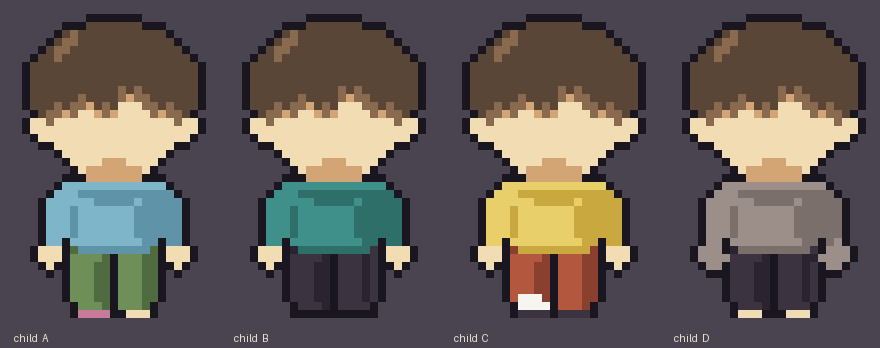
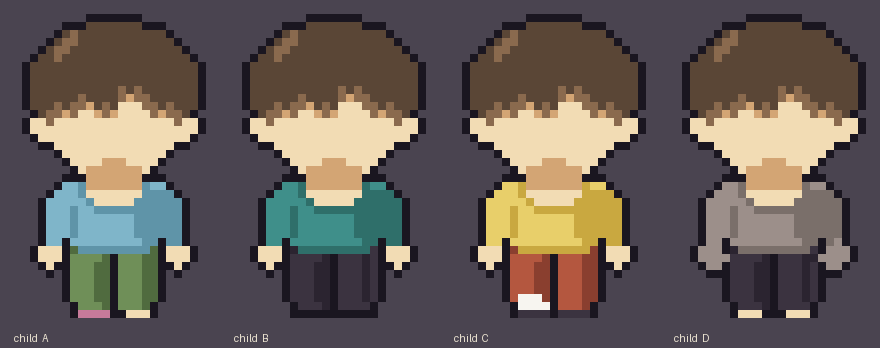
Protagonist: rounded U neckline with rib ring and neck shadow
Claude-Session: https://claude.ai/code/session_01FPZSaKiVNU2zED737yZX4w

diff --git a/tools/gen_child6.py b/tools/gen_child6.py
@@ -49,7 +49,12 @@ def shade_clothes(c, shirt, pants):
     """빛은 왼쪽 위. 그늘: 턱 밑 목, 목선 안쪽, 오른쪽 옆구리와 오른팔, 겨드랑이, 상의 밑단 아래, 바지 오른쪽."""
     sh, ps = SHADE[shirt], SHADE[pants]
     shade_on(c, K.SKIN, 'u', 12, 19.6, 3.6, 1.8)                    # 턱 밑 목 그늘
-    shade_on(c, shirt, sh, 12, 22.2, 4.2, 1.1)                      # 목선 안쪽 그늘
+    for y in range(19, 26):                                                                                # 둥근 목선(U자): 안쪽은 살색, 바깥은 옷 그늘색 테두리
+        for x in range(24):
+            d_out = ((x - 12) / 4.6) ** 2 + ((y - 21.4) / 3.2) ** 2
+            d_in = ((x - 12) / 3.2) ** 2 + ((y - 21.2) / 2.4) ** 2
+            if d_in <= 1 and y >= 20 and c.g[y][x] in (shirt, sh, K.SKIN, 'u'): c.g[y][x] = 'u' if y <= 21 else K.SKIN
+            elif d_out <= 1 and y >= 20 and c.g[y][x] in (shirt, sh): c.g[y][x] = sh
     shade_on(c, shirt, sh, 17.6, 25.6, 3.0, 4.6)                    # 오른쪽 몸통 그늘
     shade_on(c, shirt, sh, 19.4, 26.0, 1.6, 3.4)                    # 오른팔 안쪽 그늘
     shade_on(c, shirt, sh, 12, 29.2, 6.0, 0.9)                      # 상의 밑단 아래 그늘
